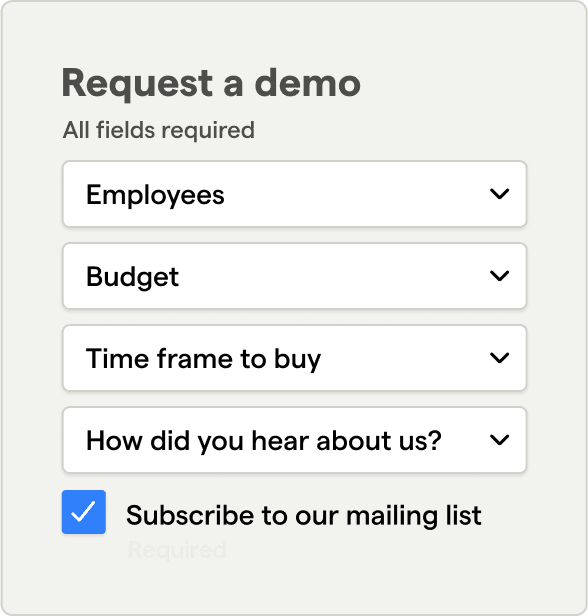
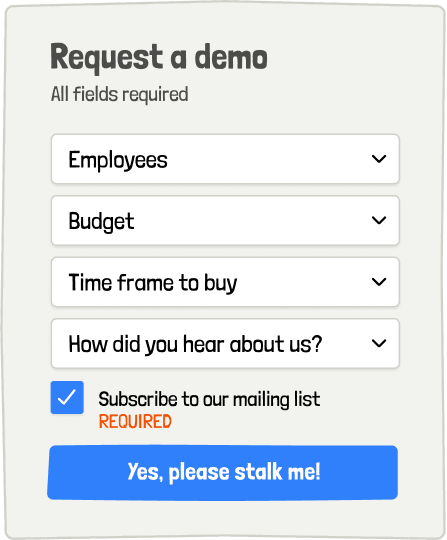
updated `/sales` page images

diff --git a/src/pages/sales.tsx b/src/pages/sales.tsx
@@ -28,20 +28,20 @@ const them = [
                 <div className="col-span-3 rotate-2 -mt-6 mb-6 relative left-3 md:left-0">
                     <div className="dark:hidden">
                         <StaticImage
-                            quality={90}
+                            quality={100}
                             placeholder="blurred"
                             loading="eager"
                             src="../images/sales/demo-form-light.png"
-                            width={294}
+                            width={270}
                         />
                     </div>
                     <div className="hidden dark:block">
                         <StaticImage
-                            quality={90}
+                            quality={100}
                             placeholder="blurred"
                             loading="eager"
                             src="../images/sales/demo-form-dark.png"
-                            width={294}
+                            width={270}
                         />
                     </div>
                 </div>
@@ -76,12 +76,7 @@ const them = [
                 </div>
 
                 <div className="col-span-4 -mt-4 pb-6 rotate-2">
-                    <StaticImage
-                        quality={90}
-                        placeholder="blurred"
-                        src="../images/sales/sdr-on-zoom.png"
-                        width={505.5}
-                    />
+                    <StaticImage quality={90} placeholder="blurred" src="../images/sales/sdr-on-zoom.png" width={436} />
                 </div>
             </>
         ),
@@ -98,7 +93,9 @@ const them = [
                     </p>
                 </div>
 
-                <div className="col-span-3 -mt-8 pb-6"></div>
+                <div className="col-span-3 -mt-6 md:-mt-12 pb-4">
+                    <StaticImage quality={90} placeholder="blurred" src="../images/sales/no-hope.png" width={352} />
+                </div>
             </>
         ),
     },
@@ -154,12 +151,12 @@ const them = [
                     </p>
                 </div>
 
-                <div className="col-span-3 -mt-12">
+                <div className="col-span-3 -mt-6">
                     <StaticImage
                         quality={90}
                         placeholder="blurred"
-                        src="../images/sales/ribbon-cutting.png"
-                        width={326}
+                        src="../images/sales/contract-negotiation.png"
+                        width={369}
                     />
                 </div>
             </>
@@ -209,13 +206,8 @@ const them = [
                     </p>
                 </div>
 
-                <div className="col-span-3 -mt-4 md:-mt-12 text-center">
-                    <StaticImage
-                        quality={90}
-                        placeholder="blurred"
-                        src="../images/sales/confused-hog.png"
-                        width={202}
-                    />
+                <div className="col-span-3 -mt-4 md:-mt-8 md:pb-8 text-center">
+                    <StaticImage quality={90} placeholder="blurred" src="../images/sales/shocked-hog.png" width={200} />
                 </div>
             </>
         ),
@@ -275,7 +267,7 @@ const us = [
 
         children: (
             <>
-                <div className="col-span-5 pl-1 md:pl-9 [&_p]:mb-2 max-w-2xl pb-12 md:pb-24">
+                <div className="col-span-5 pl-1 md:pl-9 [&_p]:mb-2 max-w-2xl md:pb-24">
                     <p>
                         Get booked on a demo call with a technical person who will spend 90% of the call in the PostHog
                         app, not chatting about our vision. They will use the info you’ve shared to customize the demo.
@@ -287,7 +279,7 @@ const us = [
                     </p>
                 </div>
 
-                <div className="col-span-3 text-center">
+                <div className="col-span-3 text-center rotate-2 pb-4 pr-2">
                     <StaticImage quality={90} placeholder="blurred" src="../images/sales/posthog-ae.png" width={436} />
                 </div>
             </>
@@ -342,8 +334,13 @@ const us = [
                     </p>
                 </div>
 
-                <div className="col-span-4 -mt-4 text-center">
-                    <StaticImage quality={90} placeholder="blurred" src="../images/sales/discounts.png" width={321} />
+                <div className="col-span-4 -mt-8 md:-mt-12 text-center">
+                    <StaticImage
+                        quality={90}
+                        placeholder="blurred"
+                        src="../images/sales/choose-discount.png"
+                        width={433}
+                    />
                 </div>
             </>
         ),
